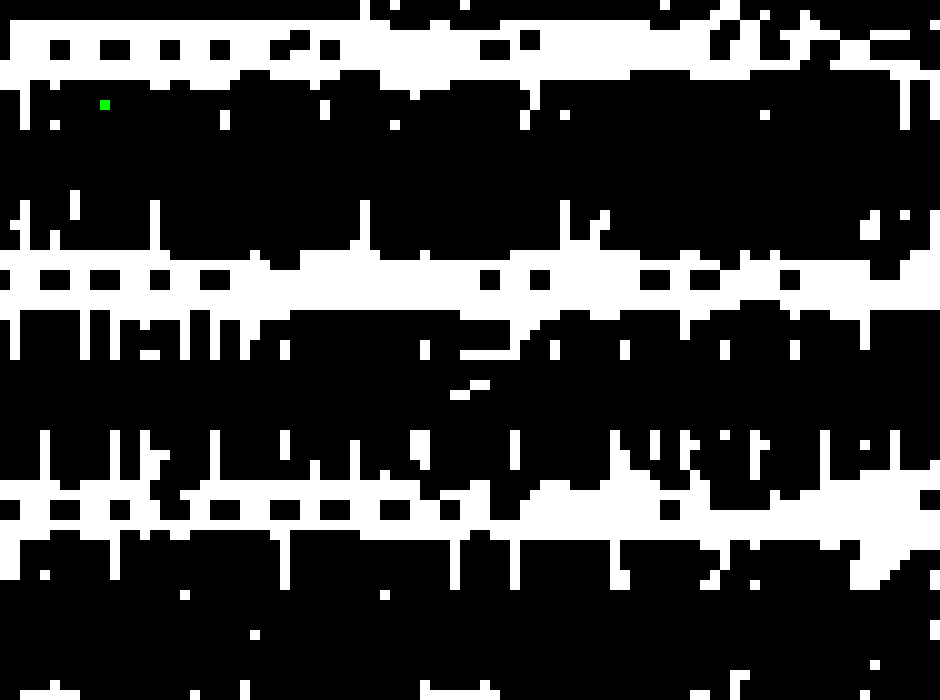
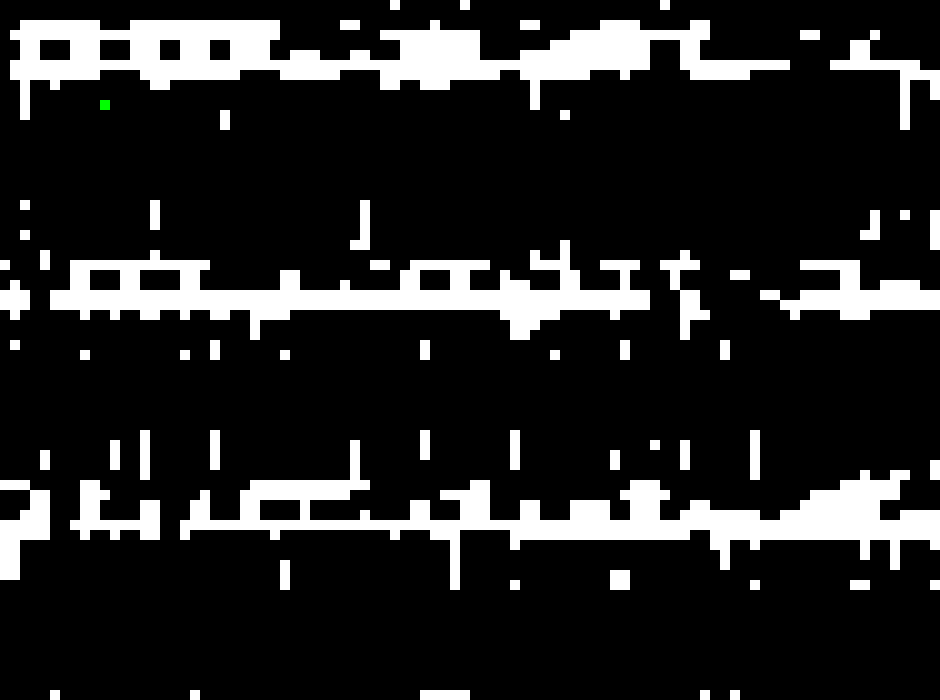
Fixed dijkstra
changed to be more general

diff --git a/src/Dijkstra.java b/src/Dijkstra.java
@@ -3,7 +3,11 @@
  * @version Mini project v1
  */
 
+import java.util.Comparator;
 import java.util.HashMap;
+import java.util.HashSet;
+import java.util.PriorityQueue;
+import java.util.Set;
 
 /**
  * Class that implements Dijkstra's algorithm to find the shortest path from the entrance to the an available spot
@@ -18,84 +22,66 @@ public class Dijkstra {
 	//HashMap storing the Double shortest distances from the entrance to each valid node
 	private HashMap<Node, Double> map;
 	
+	private Node entrance;
+	
 	/**
 	 * Parameterized constructor
 	 * @param grid The 2D Node grid
 	 */
-	public Dijkstra(Node[][] grid) {
+	public Dijkstra(Node[][] grid, Node entrance) {
 		this.grid = grid;
 		map = new HashMap<Node, Double>();
+		this.entrance = entrance;
 	}
 	
 	/**
 	 * Method that computes the shortest path to an available parking using Dijkstra's algorithm
 	 */
 	public void Compute() {
-		int rows = grid.length;
-		int cols = grid[0].length;
 		closestDist = Double.MAX_VALUE;
 		
-		//Array that stores the shortest distance from source to each node
-		double dist[][] = new double[rows][cols];
-		//Bool array that stores whether a node is checked
-		boolean visited[][] = new boolean[rows][cols];
+		map.clear();
 		
-		//Initialize all the distances to max and all bools to false
-		//Distance is set to max to represent that we dont have a path calculated
-		for(int i = 0; i < rows; i++) {
-			for(int j = 0; j < cols; j++) {
-				dist[i][j] = Double.MAX_VALUE;
-				visited[i][j] = false;
-			}
+		if(entrance == null) {
+			System.err.println("No entrance found");
+			return;
 		}
 		
-		//Set distance to 0 for the root node
-		dist[0][0] = 0;
-
-		while(true) {
-			//Set the distance to max value to represent that no path has been found yet
-			double lowest = Double.MAX_VALUE;
+		Set<Node> visited = new HashSet<>();
+		PriorityQueue<Node> queue = new PriorityQueue<Node>(Comparator.comparingDouble(node -> map.getOrDefault(node, Double.MAX_VALUE)));
+		
+		map.put(entrance, 0.0);
+		queue.add(entrance);
+		
+		while(!queue.isEmpty()) {
+			Node current = queue.poll();
 			
-			int u = -1;
-			int v = -1;
-			
-			//Loop through all nodes and check if there is a new lowest distance
-			for(int i = 0; i < rows; i++) {
-				for(int j = 0; j < cols; j++) {
-					if(!visited[i][j] && dist[i][j] < lowest) {
-						lowest = dist[i][j];
-						u = i;
-						v = j;
-					}
-				}
+			if(visited.contains(current)) {
+				continue;
 			}
+			visited.add(current);
 			
-			//Check if still at valid index
-			if(u == -1 || v == -1) {
-				break;
+			double currentDist = map.get(current);
+			 
+			if(current.getType() == Node.NodeType.PARKING_SPOT && currentDist < closestDist) {
+				closestParking = current;
+				closestDist = currentDist;
 			}
-			
-			visited[u][v] = true;
 			
 			//Relax the edges of the node
 			try {
-				for(Edge edge : grid[u][v].getEdges()) {
+				for(Edge edge : current.getEdges()) {
 					Node neighbor = edge.getTo();
-					int neighborX = neighbor.getX();
-					int neighborY = neighbor.getY();
 					
 					//If edge is unvisited then calculate and update distance to node
-					if(!visited[neighborY][neighborX]) {
-						double newDist = dist[u][v] + edge.getWeight();
-						//Check if new calculated distance is shorter than previously shortest
-						if(newDist < dist[neighborY][neighborX]) {
-							dist[neighborY][neighborX] = newDist;
-							map.put(neighbor, newDist);
-							if((neighbor.getType() == Node.NodeType.PARKING_SPOT) && dist[neighborY][neighborX] < closestDist) {
-		                        closestParking = neighbor;
-		                        closestDist = dist[neighborY][neighborX];
-		                    }
-						}
+					if(visited.contains(neighbor)) {
+						continue;
+					}
+					
+					double newDist = currentDist + edge.getWeight();
+					if(!map.containsKey(neighbor) || newDist < map.get(neighbor)) {
+						map.put(neighbor, newDist);
+						queue.add(neighbor);
 					}
 				}
 			}

diff --git a/src/GreyImageProcessor.java b/src/GreyImageProcessor.java
@@ -11,6 +11,8 @@ import java.util.Arrays;
 
 import javax.imageio.ImageIO;
 
+import org.w3c.dom.ranges.DocumentRange;
+
 
 /**
  * Class that handles the process of taking an image and creating a node graph from it
@@ -34,9 +36,9 @@ public class GreyImageProcessor {
 		//BufferedImage downSampled = downSample(grey, 2); //This step has varying results
 		threshold(grey, 200, i);
 		BufferedImage edge =  edges(grey, 30, i);
-		BufferedImage filtered = medianFilter(edge, i);
+//		BufferedImage filtered = medianFilter(edge, i);
 //		downSample(filtered, 2, i);
-		grid = processor.createNodes(filtered, 5, 50, 50, 10, 0.005);
+		grid = processor.createNodes(edge, 5, 50, 50, 10, 0.005);
 		
 	    BufferedImage visual = visualizeGrid(grid, 10);
 	    File outputfile = new File("output/grid_result_" + i + ".png");
@@ -339,20 +341,19 @@ public class GreyImageProcessor {
 				}
 			}
 		}
-		grid[190][255].setAvailable(true);
-		grid[190][255].setType(Node.NodeType.PARKING_SPOT);
+		
 		//For debug
-//		for (int y = 0; y < grid.length; y++) {
-//		    for (int x = 0; x < grid[0].length; x++) {
-//		        Node node = grid[y][x];
-//		        if(node != null) {
-//		        if (!node.getEdges().isEmpty()) {
-//		        	
-//		        		 System.out.println("Node at (" + y + "," + x + ") has " + node.getEdges().size() + " neighbors.");
-//		        	}
-//		        }
-//		    }
-//		}
+		for (int y = 0; y < grid.length; y++) {
+		    for (int x = 0; x < grid[0].length; x++) {
+		        Node node = grid[y][x];
+		        if(node != null) {
+		        if (!node.getEdges().isEmpty()) {
+		        	
+		        		 System.out.println("Node at (" + y + "," + x + ") has " + node.getEdges().size() + " neighbors.");
+		        	}
+		        }
+		    }
+		}
 
 	}
 	
@@ -366,5 +367,9 @@ public class GreyImageProcessor {
 	
 	public Node getEntrance() {
 		return entrance;
+	}
+	
+	public void setEntrance(Node entrance) {
+		this.entrance = entrance;
 	}
 }

diff --git a/src/Main.java b/src/Main.java
@@ -3,8 +3,6 @@ import java.io.File;
 import java.io.FileNotFoundException;
 import java.io.IOException;
 import java.util.List;
-import java.util.function.BinaryOperator;
-
 import javax.imageio.ImageIO;
 
 public class Main {
@@ -13,13 +11,13 @@ public class Main {
 		String[] imageList = new String[6];
 		//Skip one for now
 		//Need to create ideal parking (drawn) for image_1.jpg
-		for(int i = 2; i < 6; i++) {
+		for(int i = 1; i < 6; i++) {
 			GreyImageProcessor image = new GreyImageProcessor();
 			imageList[i] = "data/image_" + i +".jpg";
 			System.out.println(imageList[i]);
 			GreyImageProcessor.processImage(imageList[i],i);
 
-			Dijkstra dijkstra = new Dijkstra(image.getGrid());
+			Dijkstra dijkstra = new Dijkstra(image.getGrid(), image.getEntrance());
 			dijkstra.Compute();
 			System.out.println(dijkstra.getClosestDist());
 		}
